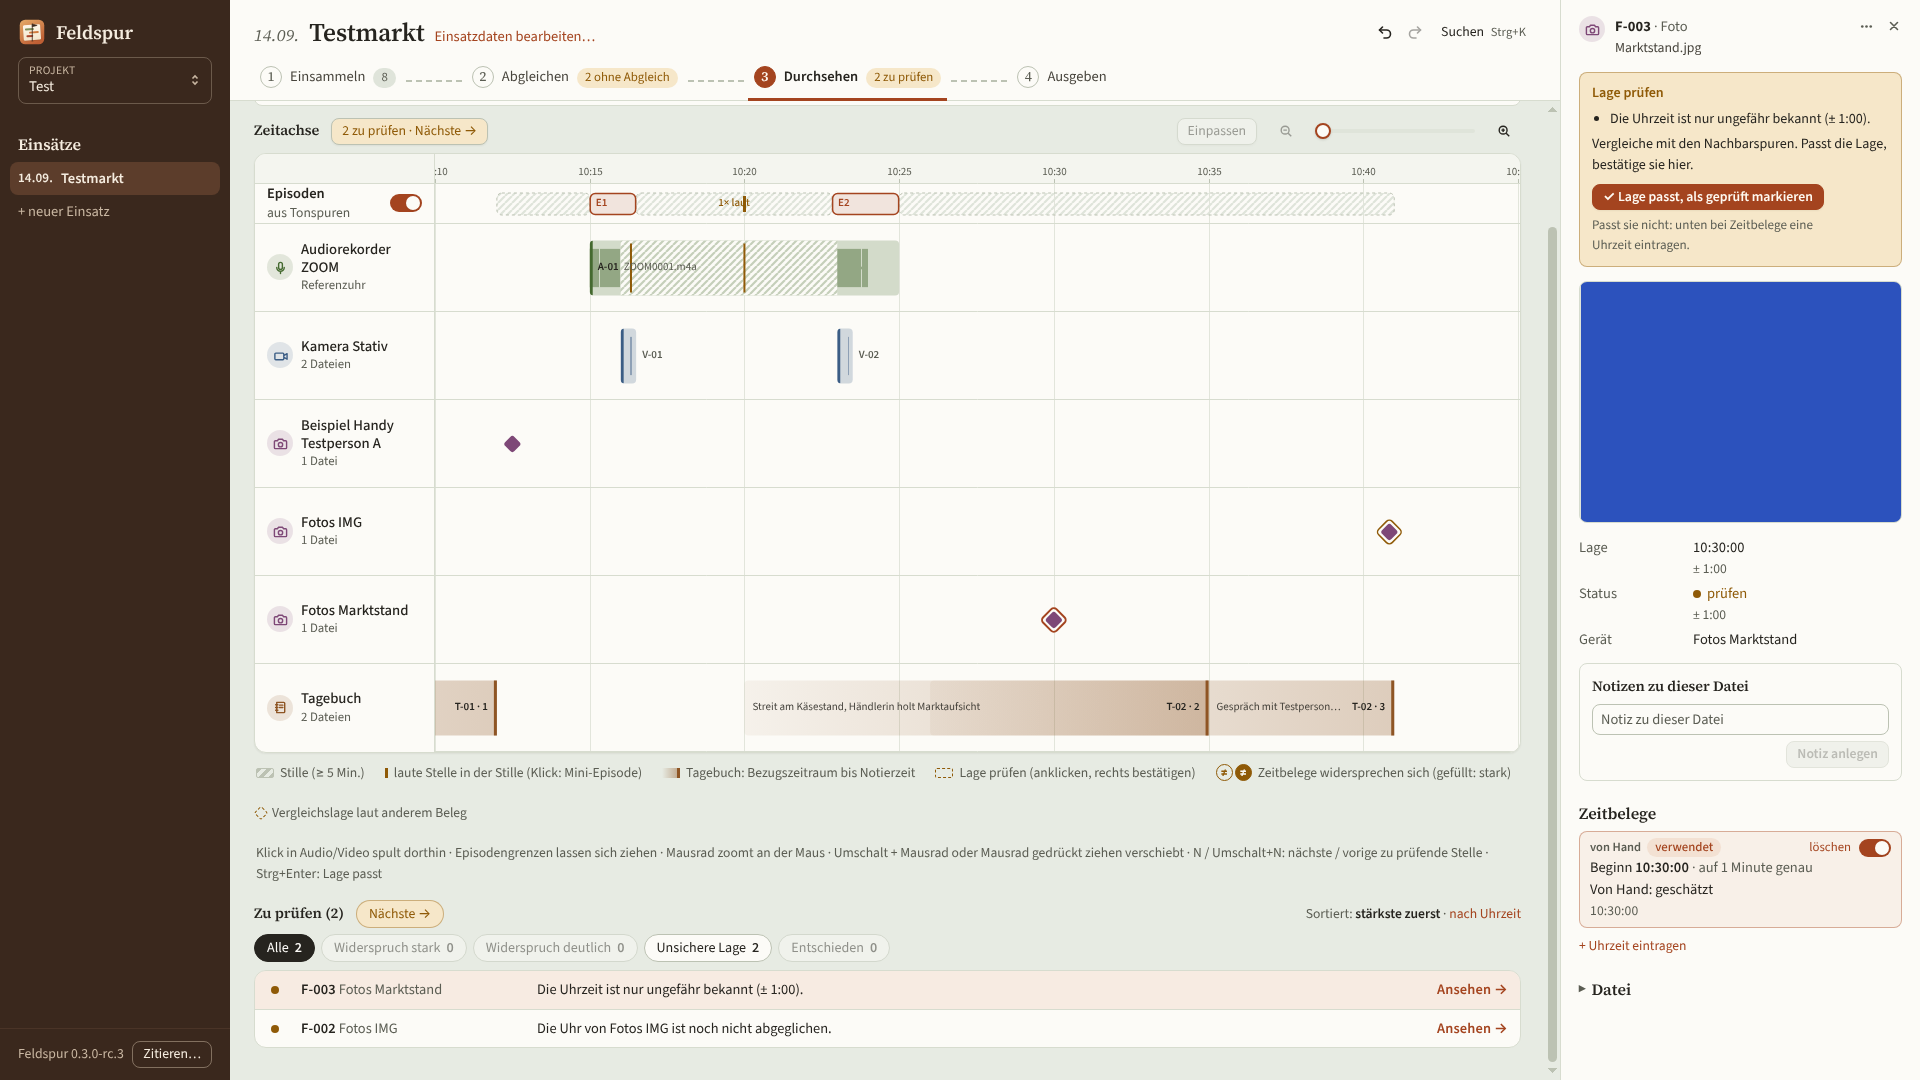
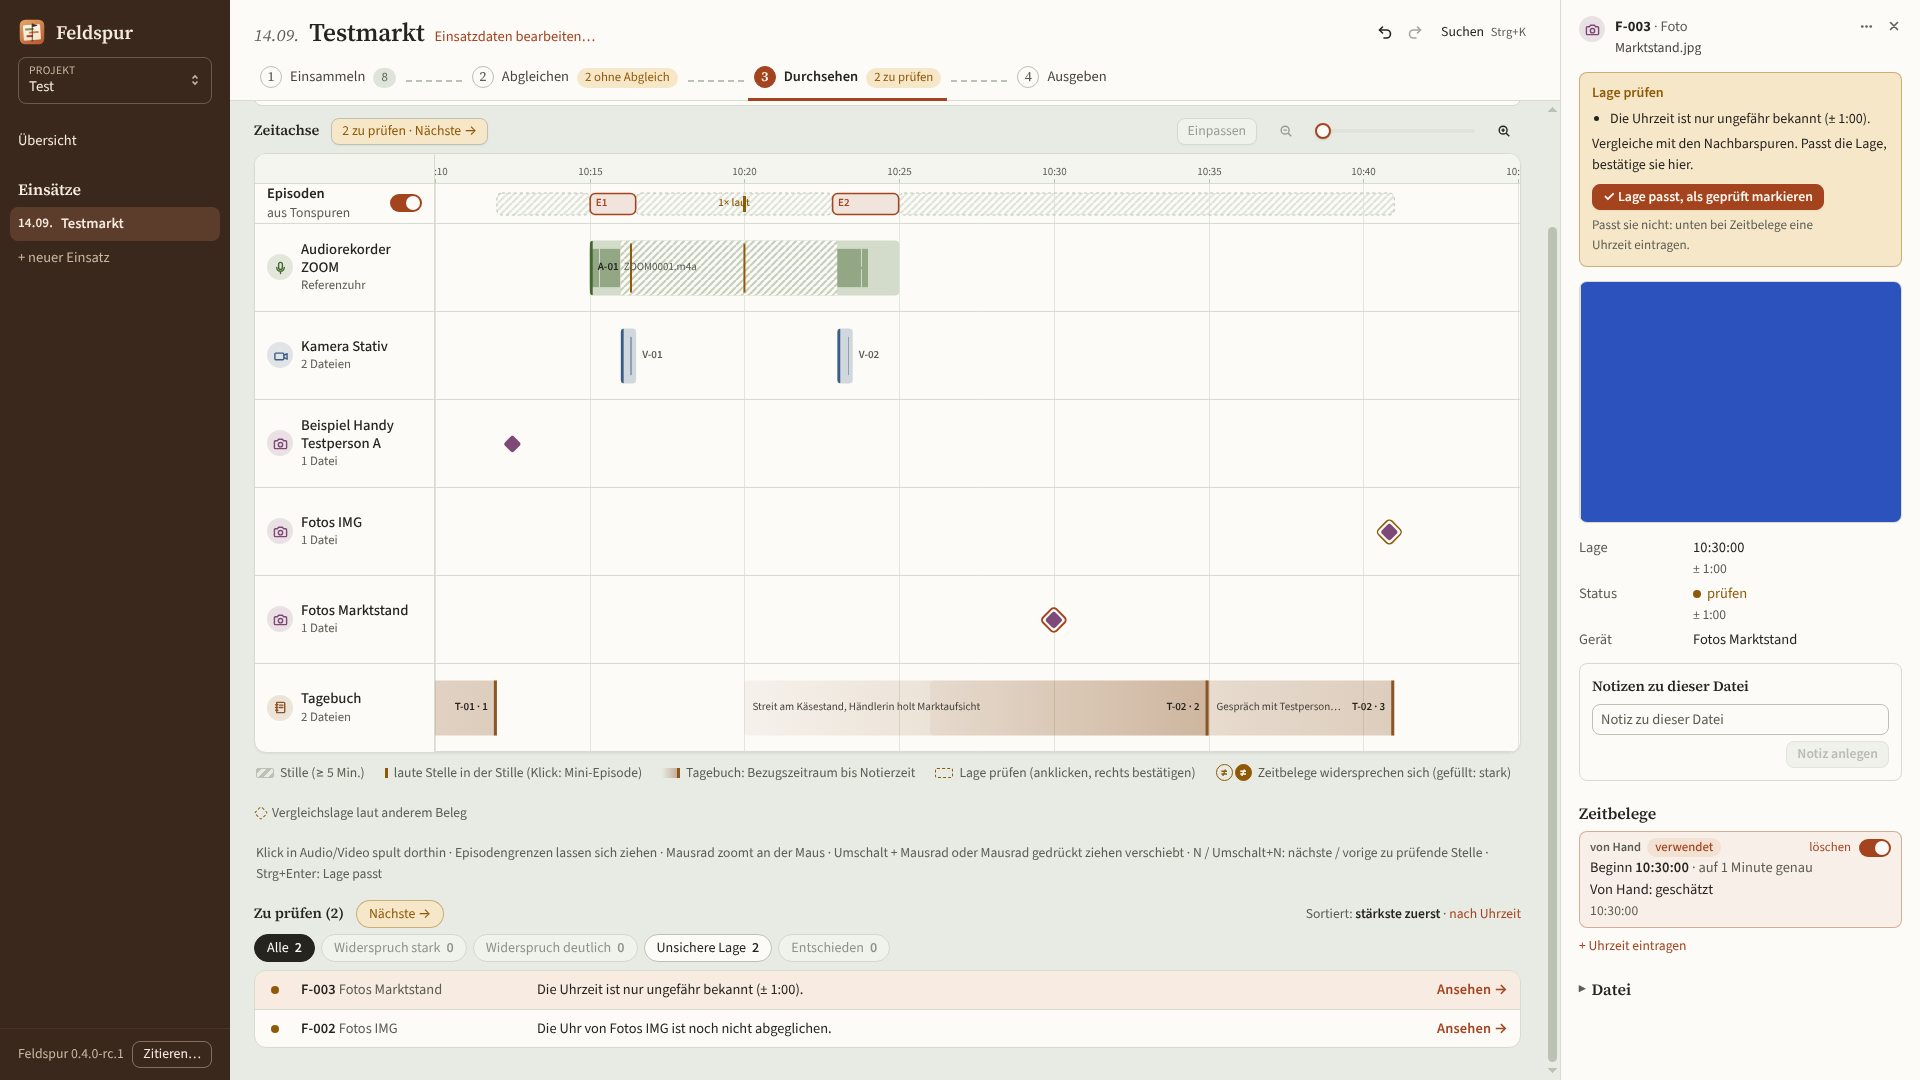
Handbuch: Texte und Bildschirmfotos an v0.4.0 angeglichen, neues Bild der Übersicht (#224)
<!-- claude-projects-attribution: {"github_login":"pklaschka"} -->
_Requested by **Zuri** · [project
thread](https://claude.ai/code/project/chan_01NPGfCNkKAdpSwGHihmavJG?thread=cmsg_01NPGfCNkKAdpSwGHihmavJG3BcQVgyXqNxUaLg3MFWsW4)_

Audit der Handbuch-Änderungen zwischen `v0.3.0` und `main` (Übersicht,
LIESMICH, Prüfsummenliste, Größenschätzung, Feldkalender, Delight,
UX-Durchgang #223, Anker-Fix #214).

## Befund

Der neue Text stimmt in der Sache mit der App überein: Der
Handbuch-Rundgang (`handbuch.e2e.ts`) läuft mit 167 Prüfungen ohne
Abweichung, und die Stellen, die er nicht abdeckt (Gruppentitel,
Tabellenspalten, Kürzellisten, Größenschätzung, Dateinamen,
Tastenhinweis), habe ich am Code nachgelesen. Korrigiert ist, was
ungenau, uneinheitlich oder veraltet war.

## Was sich ändert

**Text**

- Ausgeben: Der Link heißt in der App „8 Dateien anzeigen“, nicht
„Dateien anzeigen“. Die Optionen sind Schalter; „Ohne Haken“ und „Ohne
das Häkchen“ heißen jetzt „Ist der Schalter aus“.
- Übersicht: durchgehend „Einsatz“ statt „Tag“ (wie in der App seit
#223), ebenso drei ältere Stellen mit „Feldtag“. Die Erklärung „Ein
Einsatz ist ein Feldtag an einem Ort“ bleibt.
- Kennwerte: Die Zeile zum Montagevideo fehlt, wenn zuletzt ohne Video
ausgegeben wurde; das stand nicht da. Zwei unklare Bezüge aufgelöst
(„legt sie in die Zwischenablage“, „Gib ihn zuerst aus“).
- Abgleichen: „Beleg“ ist nicht mehr fett, weil das Wort in der App
nicht steht.
[…]

Changed region(s): [[0.0, 0.1222, 0.125, 0.2444]]

diff --git a/apps/desktop/test/handbuch.e2e.ts b/apps/desktop/test/handbuch.e2e.ts
@@ -308,7 +308,7 @@ await kapitel("abgleichen", async () => {
       .getByText(/Uhren stimmen jetzt überein/)
       .waitFor({ timeout: 10_000 })
       .catch(() => {});
-    await siehe("Beleg", page.getByTestId("anchor-proof"));
+    await siehe("Beleg", page.getByTestId("anchor-proof"), { handbuch: "als Beleg der Anker" });
     await siehe("Beide anhören", page.getByTestId("anchor-proof").getByRole("button", { name: /Beide anhören/ }));
     await siehe("+ Neuer Anker");
     const weiter = knopf("Weiter: Durchsehen →");
@@ -565,7 +565,9 @@ await kapitel("ausgeben", async () => {
     await siehe("Im Viewer ansehen");
     for (const s of ["Zeitraum", "Quellen", "Einsatztranskript", "Montage-ID"])
       await siehe(s, page.getByTestId("export-receipt-facts").getByText(s, { exact: true }));
-    await siehe("Dateien anzeigen", page.getByTestId("export-files-toggle"));
+    await siehe("Dateien anzeigen", page.getByTestId("export-files-toggle").getByText(/^\d+ Dateien anzeigen$/), {
+      handbuch: "Dateien anzeigen**",
+    });
     await page.getByTestId("export-files-toggle").click();
     await siehe("Ausgabeordner", page.getByTestId("export-result"));
     await siehe("LIESMICH", page.getByTestId("export-result").getByText("LIESMICH.html", { exact: true }), {

diff --git a/README.md b/README.md
@@ -218,7 +218,12 @@ Bewusste Abweichungen vom Tech-Stack-Dokument (mit Zuri abzustimmen):
   nach Episoden (Zeit dazwischen als kurze Tafel) oder in Echtzeit am Stück. Die Einblendungen zeichnet die Oberfläche,
   weil die LGPL-Fassung von FFmpeg keine Schrift setzt; „Montage ansehen“ spielt dieselbe Montage ohne Rechnen aus den
   Originalen ab. Dazu **Dokumentvariablen** (.xlsx) für MAXQDA und ein **Begleitprotokoll** (.csv) mit Herkunft und
-  Zeitnachweis jeder Datei.
+  Zeitnachweis jeder Datei. Abwählbar kommen dazu: ein **Viewer** (.html), der Video und Einsatztranskript zusammen im
+  Browser zeigt, eine **LIESMICH** (.html) mit den Tabellen für den Methodenteil, das Änderungsprotokoll des Einsatzes
+  (.csv) und eine Prüfsummenliste (`manifest-sha256.txt`).
+- **Übersicht**: die Ebene über den Einsätzen. Der **Feldkalender** legt alle Einsätze des Projekts auf eine
+  gemeinsame Uhrzeit-Achse (auch als SVG), die **Kennwerte** fassen Eingang und Ausgabe der gewählten Einsätze als
+  Tabellen für den Methodenteil zusammen. Feldspur zählt und misst dort nur und wertet nicht.
 - **Tagebucheintrag** (`DiaryEntry`): Rahmen auf einer oder mehreren Scan-Seiten mit Notierzeit. Der
   **Bezugszeitraum** reicht vor die Notierzeit zurück (Standard 15 Min. pro Einsatz). Einsatztranskript, Montage, Mitschrift
   und Suche führen den Eintrag an der Notierzeit; der Bezugszeitraum steht als Hinweis dabei.
